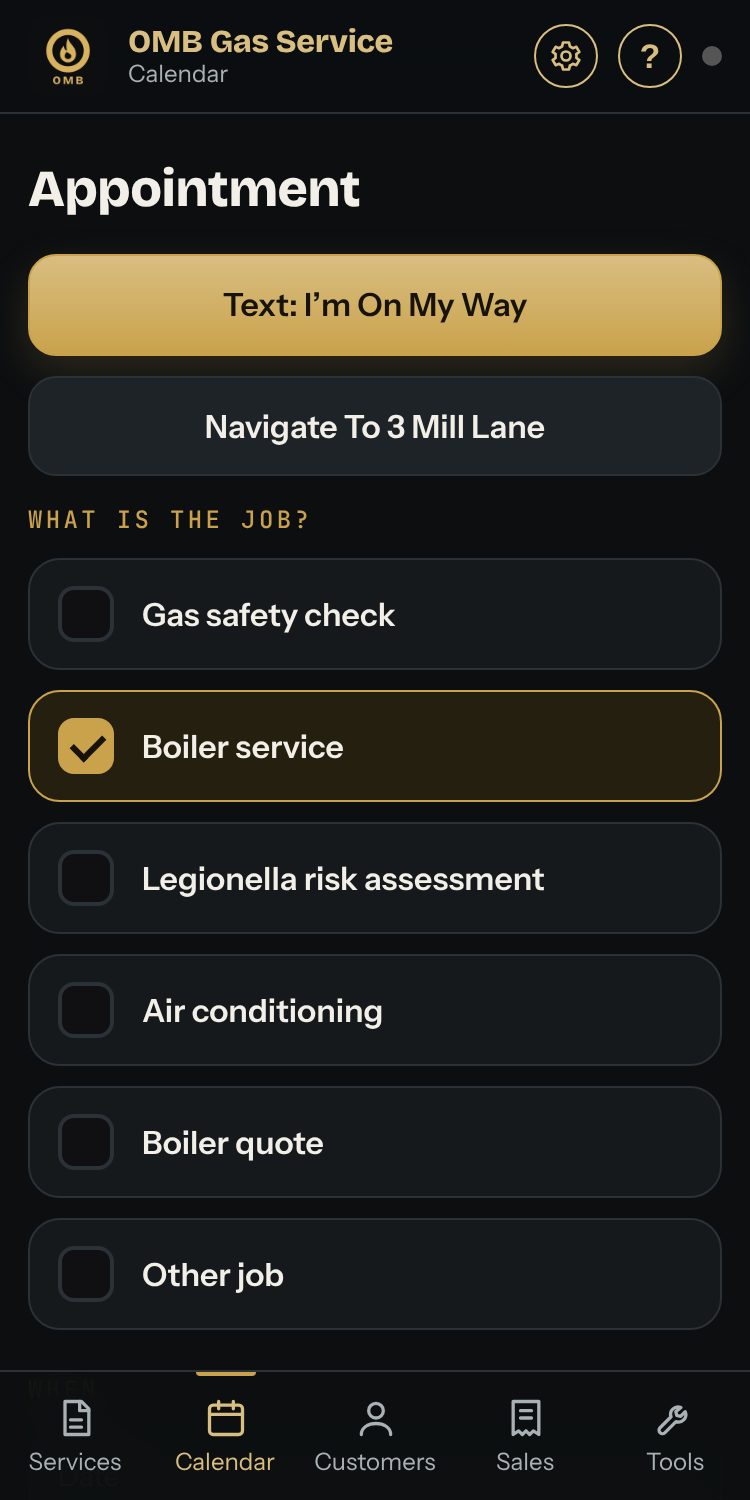
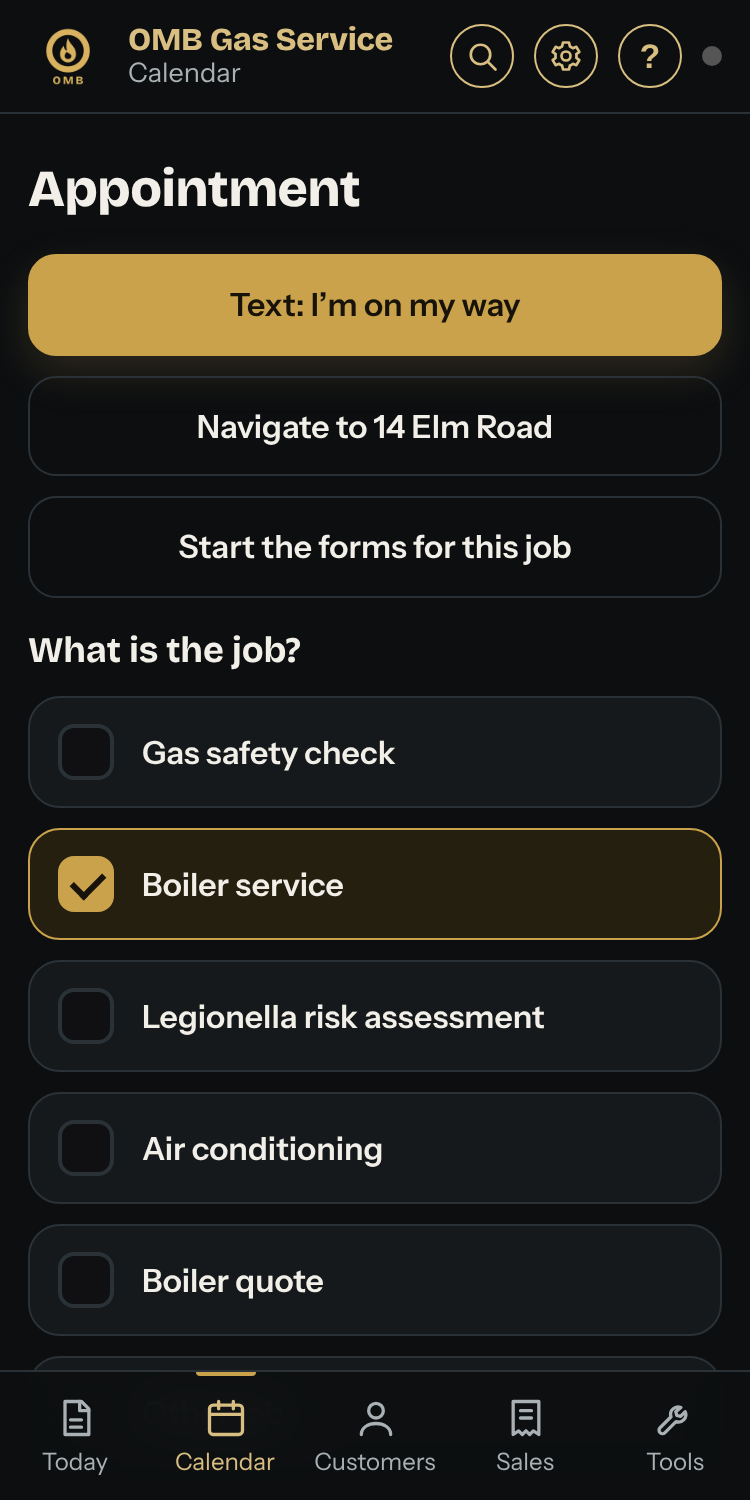
Website: refreshed app screenshots (Today, customer, appointment) and new search screenshot
Claude-Session: https://claude.ai/code/session_0178TbPUaNMd9U8tCb7q57PP

diff --git a/index.html b/index.html
@@ -48,7 +48,7 @@
     </div>
     <div class="visual"><div class="halo"></div>
       <svg class="orbit" viewBox="0 0 200 200" aria-hidden="true"><circle cx="100" cy="100" r="98" fill="none" stroke="#D9B25F" stroke-width=".6" stroke-dasharray="2 7"/><circle cx="100" cy="100" r="72" fill="none" stroke="#D9B25F" stroke-width=".4" stroke-dasharray="1 5"/></svg>
-      <div class="float"><figure class="phone" id="tilt"><div class="reel" id="reel" tabindex="0" aria-label="Screens from the app. Swipe or scroll sideways to see more."><img src="img/shot-23.png" width="750" height="1500" alt="The Today screen: the next job with the drive time from here and when to set off"><img src="img/shot-29.png" width="750" height="1500" alt="The New list: gas safety record, boiler service, Legionella, air conditioning, quotes and invoice" loading="lazy"><img src="img/shot-30.png" width="750" height="1500" alt="The gas safety record, gas installation checks with Pass, Fail and NA" loading="lazy"><img src="img/shot-31.png" width="750" height="1500" alt="The boiler service record, appliance checks" loading="lazy"><img src="img/shot-32.png" width="750" height="1500" alt="The Tools list: gas rate, pipe sizing, tightness test volume and heat loss" loading="lazy"><img src="img/shot-33.png" width="750" height="1500" alt="The tightness test volume calculator" loading="lazy"><img src="img/shot-34.png" width="750" height="1500" alt="Gas pipe sizing" loading="lazy"><img src="img/shot-35.png" width="750" height="1500" alt="Heat loss and radiator sizing, room by room" loading="lazy"><img src="img/shot-36.png" width="750" height="1500" alt="The calendar month with the day's appointments" loading="lazy"><img src="img/shot-24.png" width="750" height="1500" alt="The Route sheet with drive times between jobs and a total" loading="lazy"><img src="img/shot-25.png" width="750" height="1500" alt="Tomorrow's route with a Text ETA button for each customer" loading="lazy"><img src="img/shot-26.png" width="750" height="1500" alt="A customer's appliance register" loading="lazy"><img src="img/shot-28.png" width="750" height="1500" alt="An accepted quote with Book the job and Create invoice buttons" loading="lazy"><img src="img/shot-27.png" width="750" height="1500" alt="Chasing an overdue invoice by Text, WhatsApp or Email" loading="lazy"></div></figure><div class="dots" id="dots"><button type="button" aria-label="Show screen 1: Today" aria-current="true"></button><button type="button" aria-label="Show screen 2: Start anything"></button><button type="button" aria-label="Show screen 3: Gas safety record"></button><button type="button" aria-label="Show screen 4: Boiler service"></button><button type="button" aria-label="Show screen 5: Tools"></button><button type="button" aria-label="Show screen 6: Tightness test"></button><button type="button" aria-label="Show screen 7: Pipe sizing"></button><button type="button" aria-label="Show screen 8: Heat loss"></button><button type="button" aria-label="Show screen 9: Calendar"></button><button type="button" aria-label="Show screen 10: Route"></button><button type="button" aria-label="Show screen 11: Tomorrow"></button><button type="button" aria-label="Show screen 12: Appliances"></button><button type="button" aria-label="Show screen 13: Quotes"></button><button type="button" aria-label="Show screen 14: Chase"></button></div></div>
+      <div class="float"><figure class="phone" id="tilt"><div class="reel" id="reel" tabindex="0" aria-label="Screens from the app. Swipe or scroll sideways to see more."><img src="img/shot-23.png?v=2" width="750" height="1500" alt="The Today screen: the next job with the drive time from here and when to set off"><img src="img/shot-29.png" width="750" height="1500" alt="The New list: gas safety record, boiler service, Legionella, air conditioning, quotes and invoice" loading="lazy"><img src="img/shot-30.png" width="750" height="1500" alt="The gas safety record, gas installation checks with Pass, Fail and NA" loading="lazy"><img src="img/shot-31.png" width="750" height="1500" alt="The boiler service record, appliance checks" loading="lazy"><img src="img/shot-32.png" width="750" height="1500" alt="The Tools list: gas rate, pipe sizing, tightness test volume and heat loss" loading="lazy"><img src="img/shot-33.png" width="750" height="1500" alt="The tightness test volume calculator" loading="lazy"><img src="img/shot-34.png" width="750" height="1500" alt="Gas pipe sizing" loading="lazy"><img src="img/shot-35.png" width="750" height="1500" alt="Heat loss and radiator sizing, room by room" loading="lazy"><img src="img/shot-36.png" width="750" height="1500" alt="The calendar month with the day's appointments" loading="lazy"><img src="img/shot-24.png" width="750" height="1500" alt="The Route sheet with drive times between jobs and a total" loading="lazy"><img src="img/shot-25.png" width="750" height="1500" alt="Tomorrow's route with a Text ETA button for each customer" loading="lazy"><img src="img/shot-26.png?v=2" width="750" height="1500" alt="A customer's appliance register" loading="lazy"><img src="img/shot-28.png" width="750" height="1500" alt="An accepted quote with Book the job and Create invoice buttons" loading="lazy"><img src="img/shot-27.png" width="750" height="1500" alt="Chasing an overdue invoice by Text, WhatsApp or Email" loading="lazy"></div></figure><div class="dots" id="dots"><button type="button" aria-label="Show screen 1: Today" aria-current="true"></button><button type="button" aria-label="Show screen 2: Start anything"></button><button type="button" aria-label="Show screen 3: Gas safety record"></button><button type="button" aria-label="Show screen 4: Boiler service"></button><button type="button" aria-label="Show screen 5: Tools"></button><button type="button" aria-label="Show screen 6: Tightness test"></button><button type="button" aria-label="Show screen 7: Pipe sizing"></button><button type="button" aria-label="Show screen 8: Heat loss"></button><button type="button" aria-label="Show screen 9: Calendar"></button><button type="button" aria-label="Show screen 10: Route"></button><button type="button" aria-label="Show screen 11: Tomorrow"></button><button type="button" aria-label="Show screen 12: Appliances"></button><button type="button" aria-label="Show screen 13: Quotes"></button><button type="button" aria-label="Show screen 14: Chase"></button></div></div>
       <svg class="mark big" viewBox="24 24 72 72" aria-hidden="true" ><g transform="translate(0,8)"><circle class="ring" cx="60" cy="52" r="28" fill="none" stroke="#D9B25F" stroke-width="9"/><path class="fl" fill-rule="evenodd" fill="#D9B25F" d="M60 33C61 41 72 46 72 57C72 64.5 66.5 69.5 60 69.5C53.5 69.5 48 64.5 48 57C48 51.5 51 48 53.5 44.5C54 49 56 51.5 58.5 52C57 45.5 57.5 38.5 60 33ZM60 64.5C57 64.5 55 62.5 55 59.8C55 57.2 57 55.8 58.2 53.5C59.5 55.8 65 57.2 65 59.8C65 62.5 63 64.5 60 64.5Z"/></g></svg>
     </div>
   </div>
@@ -160,7 +160,7 @@
     <h2 class="rv">Plan the day, and tell customers when you are coming</h2>
     <p>Your bookings already know where you are going and when. The route screen turns them into a day you can drive, with the time it takes between every job.</p>
     <div class="shots three rv">
-      <figure class="shot"><div class="phone"><img src="img/shot-23.png" width="750" height="1500" alt="The next job card showing a drive of 14 mins from here in green and Set off in 26 mins to arrive on time" loading="lazy"></div><figcaption>The next job shows the drive from where you are, and when to set off.</figcaption></figure>
+      <figure class="shot"><div class="phone"><img src="img/shot-23.png?v=2" width="750" height="1500" alt="The next job card showing a drive of 14 mins from here in green and Set off in 26 mins to arrive on time" loading="lazy"></div><figcaption>The next job shows the drive from where you are, and when to set off.</figcaption></figure>
       <figure class="shot"><div class="phone"><img src="img/shot-24.png" width="750" height="1500" alt="The Route sheet for today with each leg's drive time and miles and a total" loading="lazy"></div><figcaption>Today's route in appointment order, with every leg and the total.</figcaption></figure>
       <figure class="shot"><div class="phone"><img src="img/shot-25.png" width="750" height="1500" alt="Tomorrow's route with a Text ETA button beside each customer" loading="lazy"></div><figcaption>Plan tonight. Text each customer their arrival time.</figcaption></figure>
     </div>
@@ -209,15 +209,16 @@
     <p class="eyebrow rv">Inside the app</p>
     <h2 class="rv">What it looks like</h2>
     <div class="shots rv">
-      <figure class="shot"><div class="phone"><img src="img/shot-23.png" width="750" height="1500" alt="The Today screen: the next job with the drive time from here, a green line saying when to set off, and Call, On my way and Navigate buttons"></div><figcaption>Today: the next job, how long it takes to get there and when to leave.</figcaption></figure>
+      <figure class="shot"><div class="phone"><img src="img/shot-23.png?v=2" width="750" height="1500" alt="The Today screen: the next job with the drive time from here, a green line saying when to set off, and Call, On my way, Navigate and Start the forms buttons"></div><figcaption>Today: the next job, how long it takes to get there, when to leave, and one tap to start the forms.</figcaption></figure>
       <figure class="shot"><div class="phone"><img src="img/shot-24.png" width="750" height="1500" alt="The Route sheet showing the drive from here to the first job and each leg" loading="lazy"></div><figcaption>Route for the day, with drive times.</figcaption></figure>
       <figure class="shot"><div class="phone"><img src="img/shot-25.png" width="750" height="1500" alt="Tomorrow's route with a Text ETA button for each customer" loading="lazy"></div><figcaption>Tomorrow's route and arrival texts.</figcaption></figure>
-      <figure class="shot"><div class="phone"><img src="img/shot-26.png" width="750" height="1500" alt="A customer's Appliances tab with make, model, GC number and serial number" loading="lazy"></div><figcaption>Appliance register for each customer.</figcaption></figure>
+      <figure class="shot"><div class="phone"><img src="img/shot-26.png?v=2" width="750" height="1500" alt="A customer with Call, Text, Navigate and New job buttons across the top, and the Appliances tab showing make, model, GC number and serial number" loading="lazy"></div><figcaption>Call, text or navigate in one tap, and an appliance register for each customer.</figcaption></figure>
+      <figure class="shot"><div class="phone"><img src="img/shot-30.png" width="750" height="1500" alt="The search box finding a customer and their certificate by name" loading="lazy"></div><figcaption>Search: find any customer, address, certificate or invoice.</figcaption></figure>
       <figure class="shot"><div class="phone"><img src="img/shot-27.png" width="750" height="1500" alt="Chasing an overdue invoice by Text, WhatsApp or Email" loading="lazy"></div><figcaption>Chase an overdue invoice in a tap.</figcaption></figure>
       <figure class="shot"><div class="phone"><img src="img/shot-28.png" width="750" height="1500" alt="An accepted quote with Book the job and Create invoice buttons" loading="lazy"></div><figcaption>Accepted quote: book it, then invoice it.</figcaption></figure>
       <figure class="shot"><div class="phone"><img src="img/shot-9.png" width="750" height="1500" alt="The calendar showing today's appointments and a button to remind tomorrow's customers" loading="lazy"></div><figcaption>Today’s jobs. Remind tomorrow’s customers.</figcaption></figure>
       <figure class="shot"><div class="phone"><img src="img/shot-10.png" width="750" height="1500" alt="The week view with each day's appointments and an Add button" loading="lazy"></div><figcaption>See the week. Add a job to any day.</figcaption></figure>
-      <figure class="shot"><div class="phone"><img src="img/shot-11.png" width="750" height="1500" alt="An appointment with a Text I'm on my way button and a Navigate button" loading="lazy"></div><figcaption>Text “on my way”. Navigate there.</figcaption></figure>
+      <figure class="shot"><div class="phone"><img src="img/shot-11.png?v=2" width="750" height="1500" alt="An appointment with a Text I'm on my way button, a Navigate button and a Start the forms button" loading="lazy"></div><figcaption>Text “on my way”. Navigate there. Start the forms.</figcaption></figure>
       <figure class="shot"><div class="phone"><img src="img/shot-12.png" width="750" height="1500" alt="A quote for any job, with a job title and what is included" loading="lazy"></div><figcaption>Quote any job, not just boilers.</figcaption></figure>
       <figure class="shot"><div class="phone"><img src="img/shot-14.png" width="750" height="1500" alt="The Quotes tab under Sales, listing each quote with its status and the total waiting for an answer" loading="lazy"></div><figcaption>Every quote in one list, with its status.</figcaption></figure>
       <figure class="shot"><div class="phone"><img src="img/shot-15.png" width="750" height="1500" alt="Accepted quotes that are not in the calendar yet, with a Schedule into the calendar button" loading="lazy"></div><figcaption>Accepted? Put it in the calendar.</figcaption></figure>
